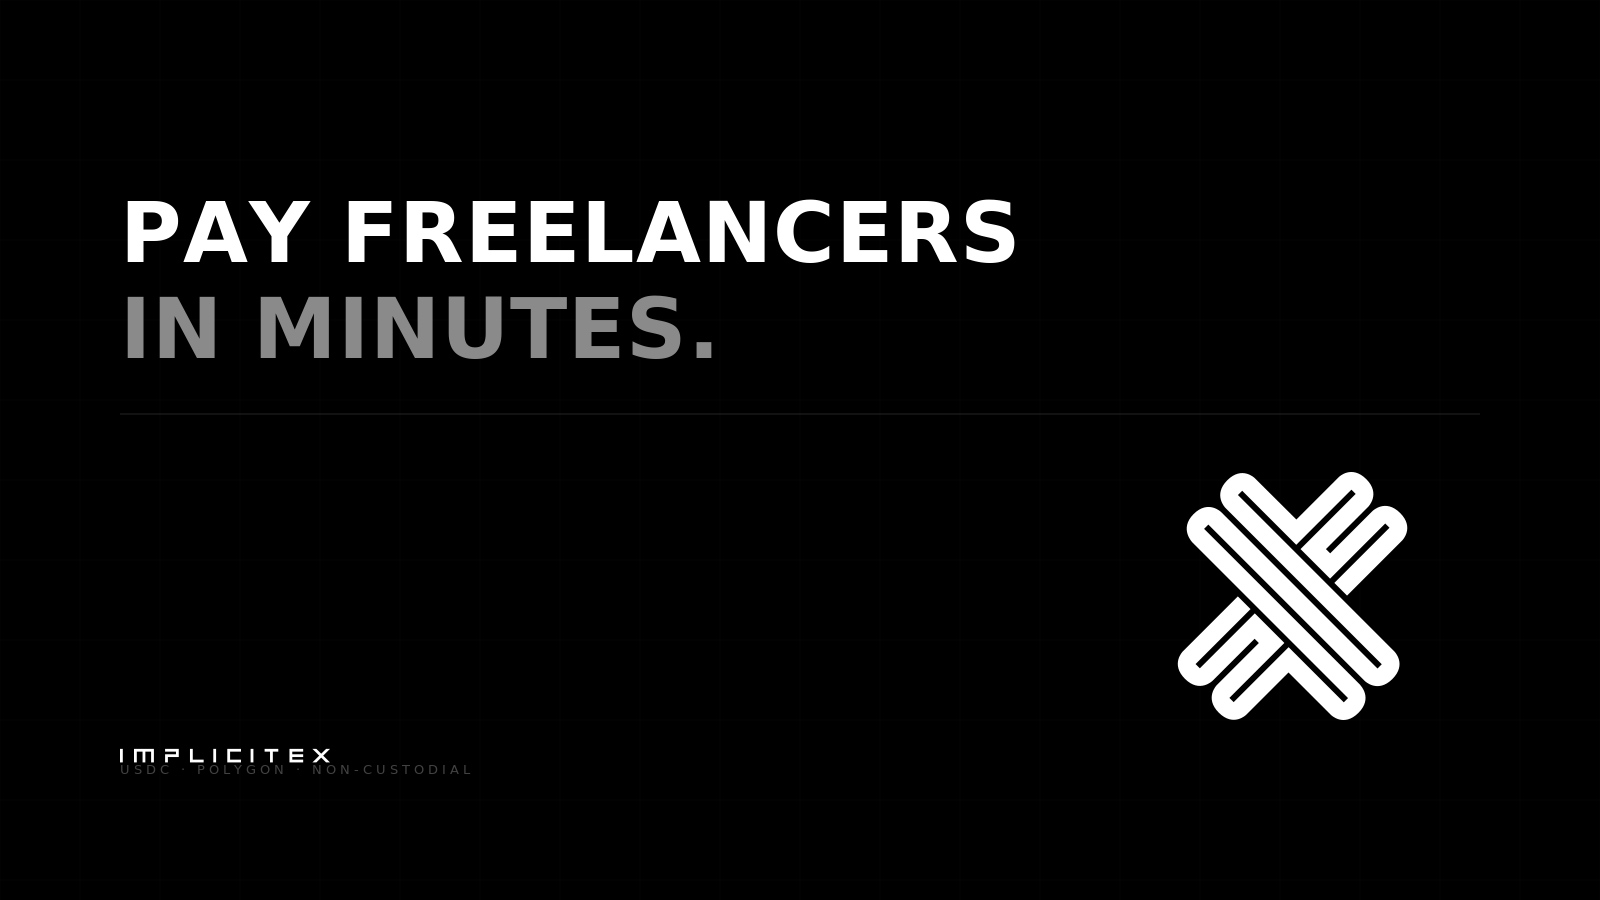
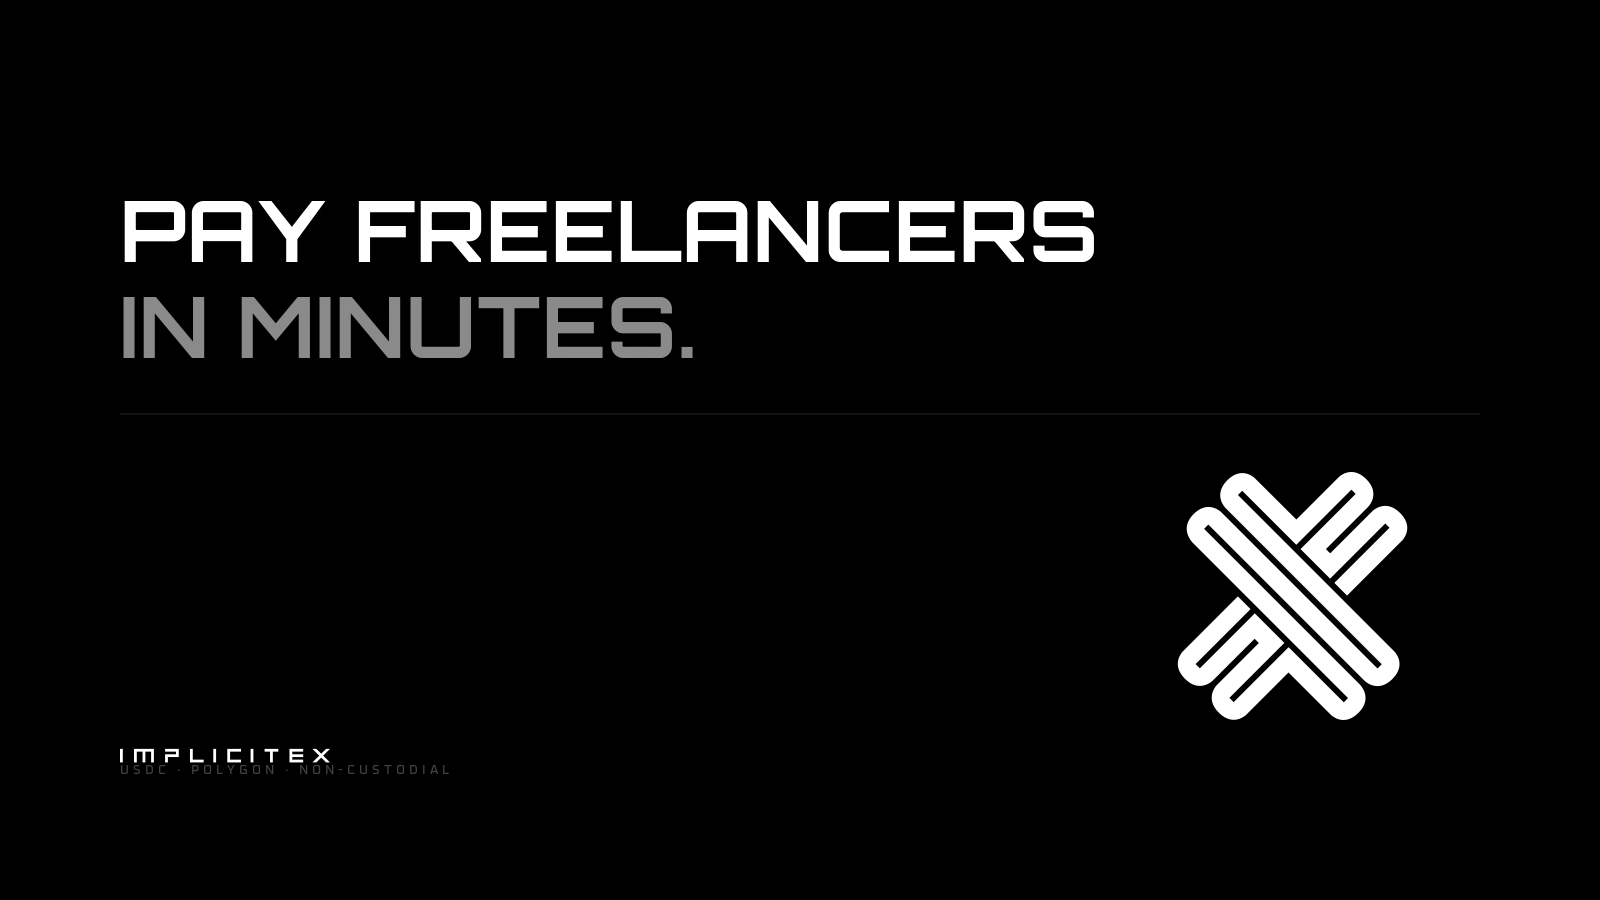
campaign: re-render PNGs with Orbitron/Oxanium, add README
PNGs previously rendered with system fallback font — CairoSVG/Pango
only sees Fontconfig-registered fonts, not @font-face src: url() in SVG.
Fonts installed to ~/.local/share/fonts + fc-cache rebuild; all 10 cards
now render with correct Orbitron (declarations) and Oxanium (attribution).

README documents the font registration dependency so the pipeline is
reproducible on a new machine without silent fallback degradation.

Changed region(s): [[0.0625, 0.2178, 0.6875, 0.4044], [0.125, 0.84, 0.2812, 0.8711]]

diff --git a/campaign/README.md b/campaign/README.md
@@ -1,0 +1,77 @@
+# ImplicitEx Campaign Build System
+
+10-card Twitter/X campaign at 1600×900px. Node.js SVG generation → Python PNG export.
+
+## Quick start
+
+```bash
+# 1. Generate SVG masters
+node generate-campaign.js
+
+# 2. Export PNGs + contact sheet
+python3 render.py
+```
+
+Output: `svg/a1–a10.svg`, `png/a1–a10.png`, `contact-sheet.png`
+
+---
+
+## Font rendering dependency
+
+The TTFs in `campaign/fonts/` are for repository portability. CairoSVG renders text
+through Pango/Cairo, which only sees fonts registered with the system's Fontconfig —
+`@font-face src: url(...)` inside an SVG is silently ignored.
+
+Before running `render.py` on a new machine, install the fonts:
+
+```bash
+mkdir -p ~/.local/share/fonts
+cp campaign/fonts/*.ttf ~/.local/share/fonts/
+fc-cache -fv ~/.local/share/fonts
+```
+
+Verify registration:
+
+```bash
+fc-list | grep -i orbitron
+fc-list | grep -i oxanium
+```
+
+Expected output:
+```
+/home/<user>/.local/share/fonts/Orbitron-Bold.ttf: Orbitron:style=Bold
+/home/<user>/.local/share/fonts/Orbitron-ExtraBold.ttf: Orbitron,Orbitron ExtraBold:style=ExtraBold,Regular
+/home/<user>/.local/share/fonts/Oxanium-Medium.ttf: Oxanium,Oxanium Medium:style=Medium,Regular
+/home/<user>/.local/share/fonts/Oxanium-SemiBold.ttf: Oxanium,Oxanium SemiBold:style=SemiBold,Regular
+/home/<user>/.local/share/fonts/Oxanium-Bold.ttf: Oxanium:style=Bold
+```
+
+If `fc-list` returns nothing for these fonts, the PNGs will render with the system
+fallback sans-serif — structurally correct but missing the Orbitron/Oxanium character
+that the campaign thesis depends on.
+
+---
+
+## Python dependencies
+
+```bash
+pip install cairosvg pillow
+```
+
+---
+
+## Safe-area audit
+
+`render.py` runs a pixel-level audit automatically. Content must stay within 120px L/R
+and 100px T/B on the 1600×900 canvas (Twitter/X safe zone). Background textures (grid,
+topo, world map) are designed to bleed to canvas edges and will be flagged — these are
+expected false positives. Violations on text, lettermark, or wordmark elements are not.
+
+Cards that use full-bleed background textures: A3, A5, A6, A8, A10.
+Cards with clean pixel audits: A1, A2, A4, A7, A9.
+
+---
+
+## Visual philosophy
+
+See `docs/marketing/campaign-thesis.md`.
